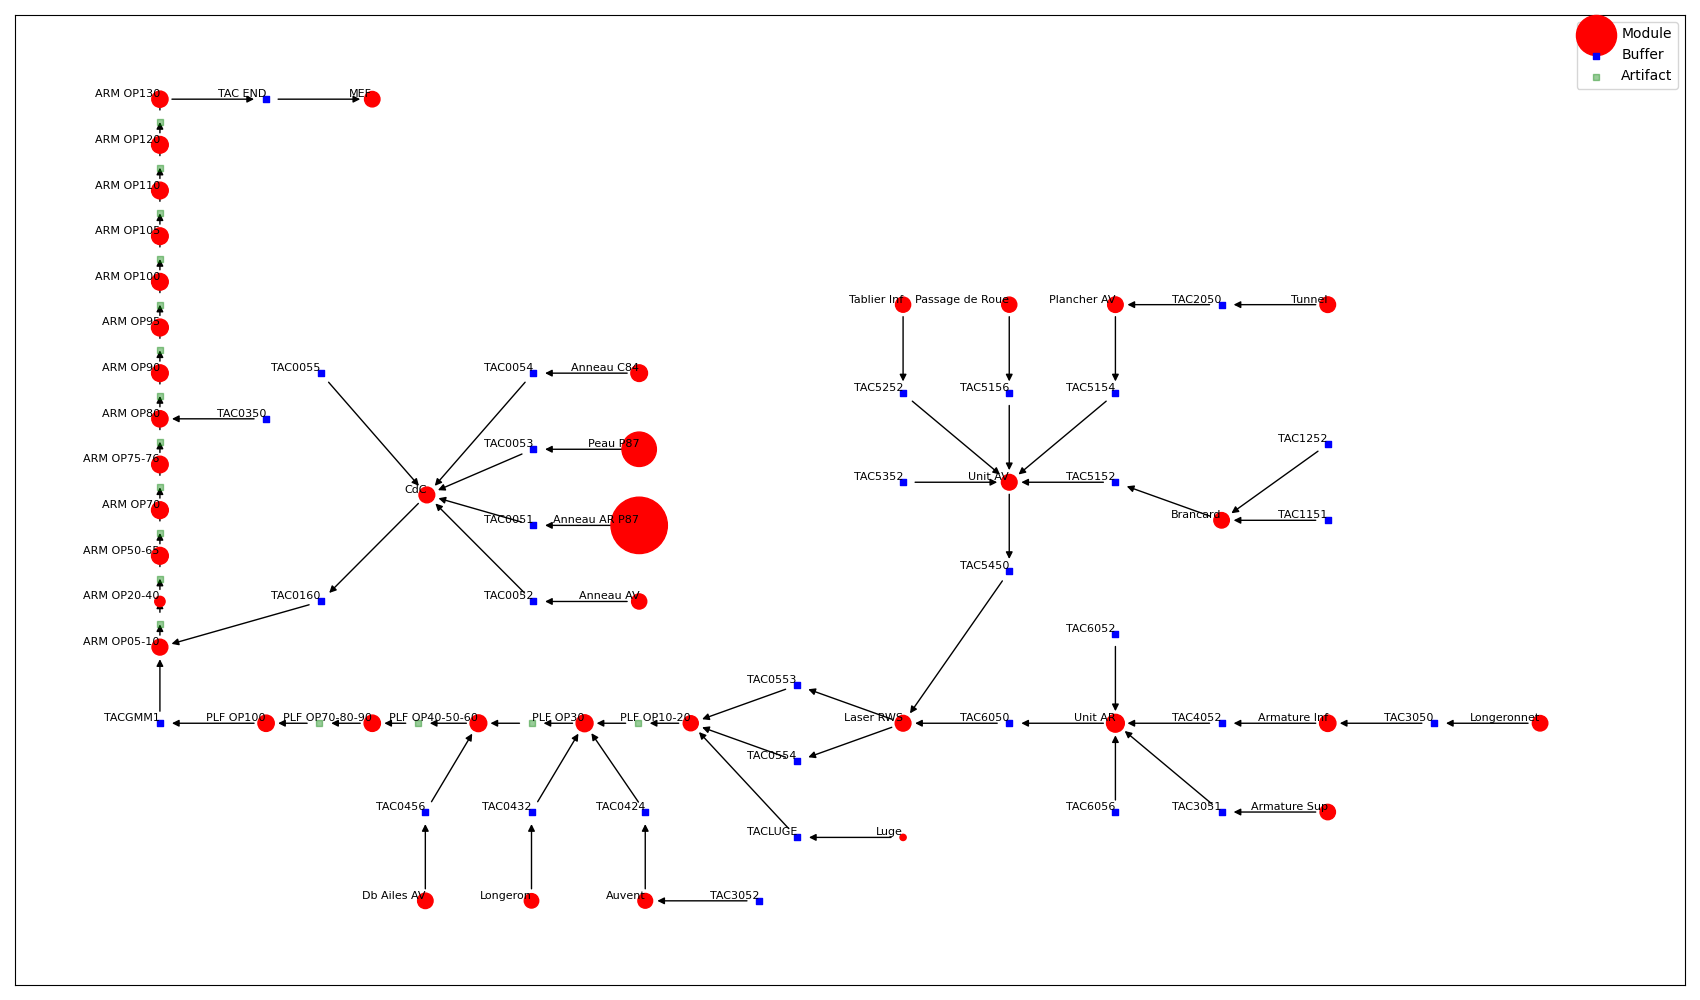
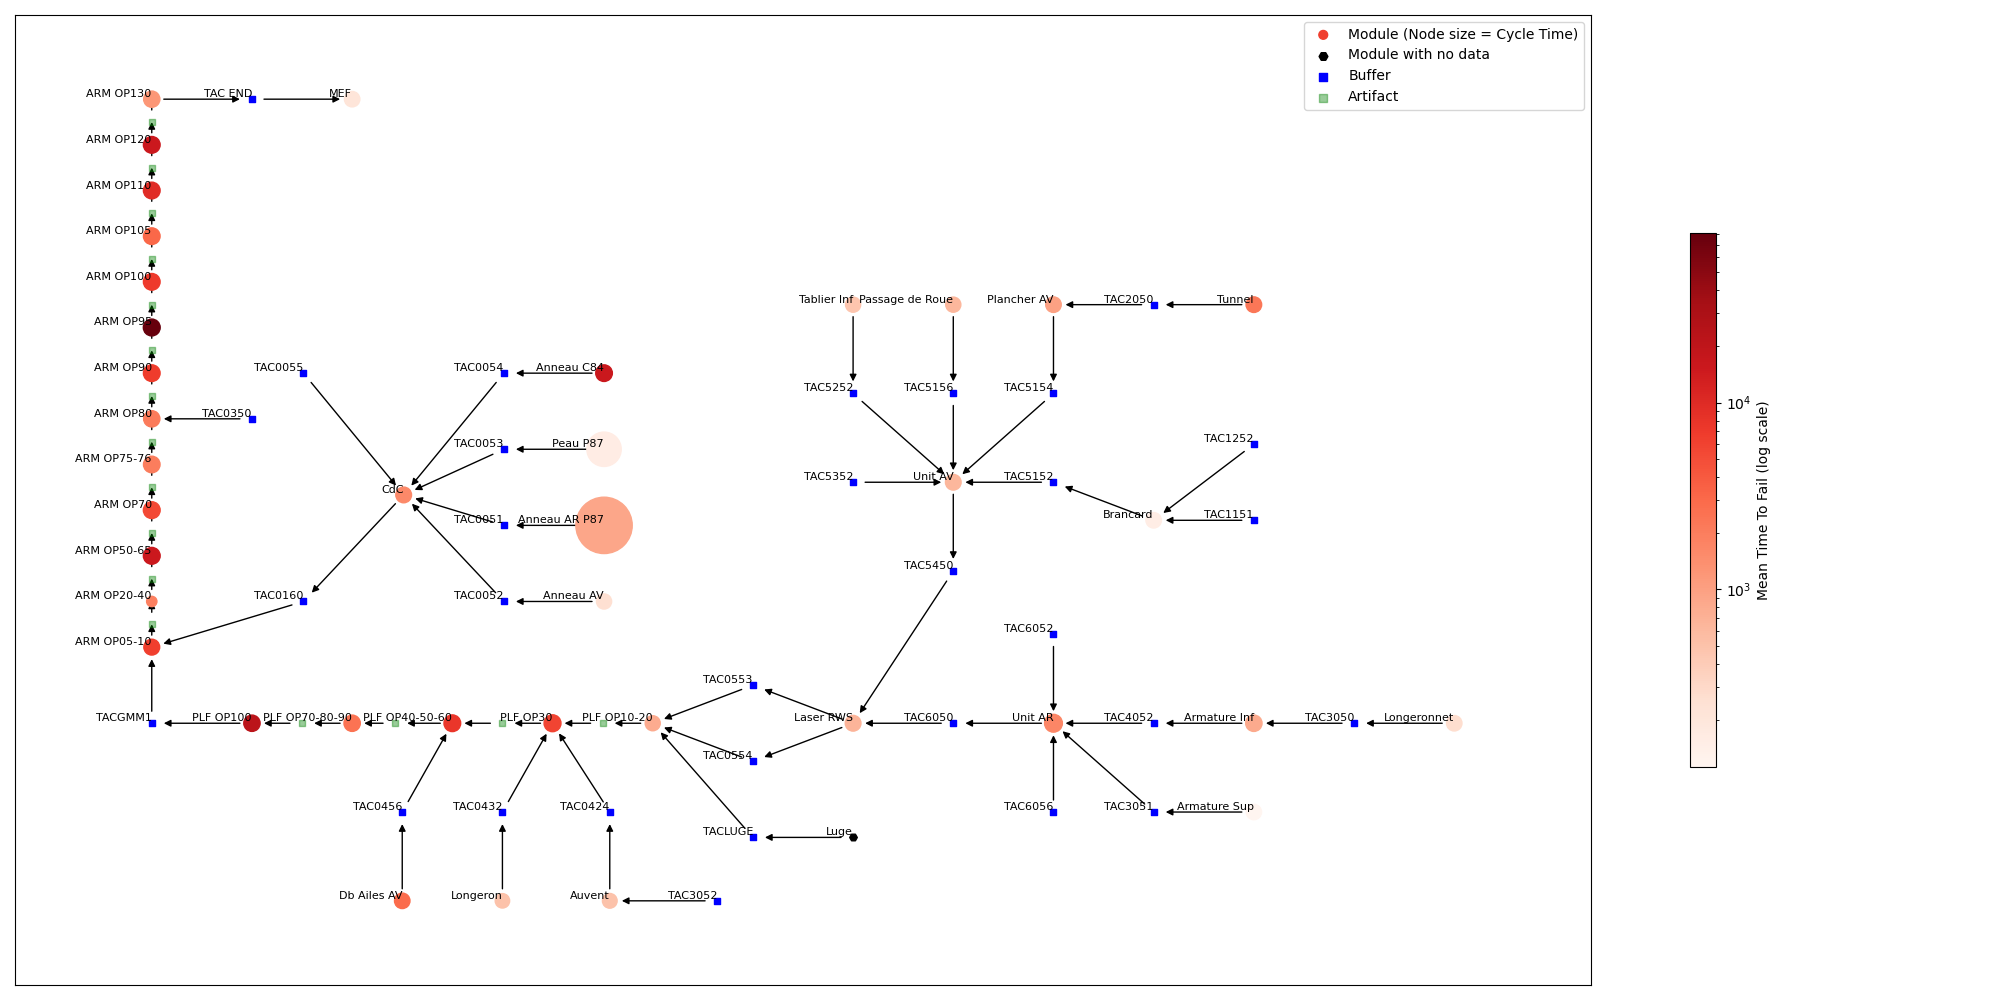
Enhancing Networkx 2D visualisation
- Adding colormap to nodes as MTTF
- Fixing legend

diff --git a/util_viz.py b/util_viz.py
@@ -1,7 +1,11 @@
 import os
 from pyvis.network import Network
 
+import matplotlib
 import matplotlib.pyplot as plt
+import matplotlib.colors as mcolors
+
+
 import networkx as nx
 
 #################### Production line graph #######################
@@ -15,6 +19,9 @@ def plot_prodcution_graph_networkx(yaml_dict, results, filename):
     
     modules_node = []
     modules_size = []
+    modules_colors = []
+
+    no_data_nodes = []
     
     buffer_nodes = []
     artifct_nodes = []
@@ -26,11 +33,12 @@ def plot_prodcution_graph_networkx(yaml_dict, results, filename):
         if yaml_dict[obj]['type'] == 'module':
             graph.add_node(obj)
             pos_modules[obj] = (yaml_dict[obj]['position'][0], yaml_dict[obj]['position'][1])
-            if obj == "LUGE":
-                modules_size.append(20)
+            if not results[obj]["cycles_CYCLE_TIME"]:
+                no_data_nodes.append(obj) 
             else :
                 modules_size.append(results[obj]["cycles_CYCLE_TIME"])
-            modules_node.append(obj)
+                modules_colors.append(results[obj]["cycles_MTTF"] )
+                modules_node.append(obj)
             node_labels[obj] = yaml_dict[obj]['display']
         elif yaml_dict[obj]['type'] == 'buffer':
             graph.add_node(obj)
@@ -56,15 +64,30 @@ def plot_prodcution_graph_networkx(yaml_dict, results, filename):
                 graph.add_edge(yaml_dict[obj]['upstream'], obj, color="black")
    
     
-    plt.figure(figsize=(17, 10))
+    plt.figure(figsize=(20, 10))
     
+    cmap = matplotlib.cm.get_cmap('Reds')
+
     nx.draw_networkx_edges(graph, pos)
-    nx.draw_networkx_nodes(graph, pos, 
+    
+    nc = nx.draw_networkx_nodes(graph, pos, 
                             nodelist=modules_node,
                             node_size=modules_size, 
-                            node_color="red", 
+                            node_color=modules_colors,
+                            cmap= cmap,
                             node_shape="o",
-                            label="Module")
+                            label="Module (Node size = Cycle Time)")
+    nc.set_norm(mcolors.LogNorm())
+    cbar = plt.colorbar(nc, aspect=20, shrink=0.55)
+    cbar.set_label("Mean Time To Fail (log scale)")
+
+    nx.draw_networkx_nodes(graph, pos, 
+                            nodelist=no_data_nodes,
+                            node_size=30, 
+                            node_color="black",
+                            cmap= cmap,
+                            node_shape="H",
+                            label = "Module with no data")
     
     nx.draw_networkx_nodes(graph, pos, 
                             nodelist=buffer_nodes, 
@@ -93,7 +116,10 @@ def plot_prodcution_graph_networkx(yaml_dict, results, filename):
                             verticalalignment="bottom")
     
     
-    plt.legend()
+    legend = plt.legend()
+    for item in legend.legendHandles:
+        item._sizes = [40]
+    
     plt.tight_layout()
     plt.savefig(filename)
 
